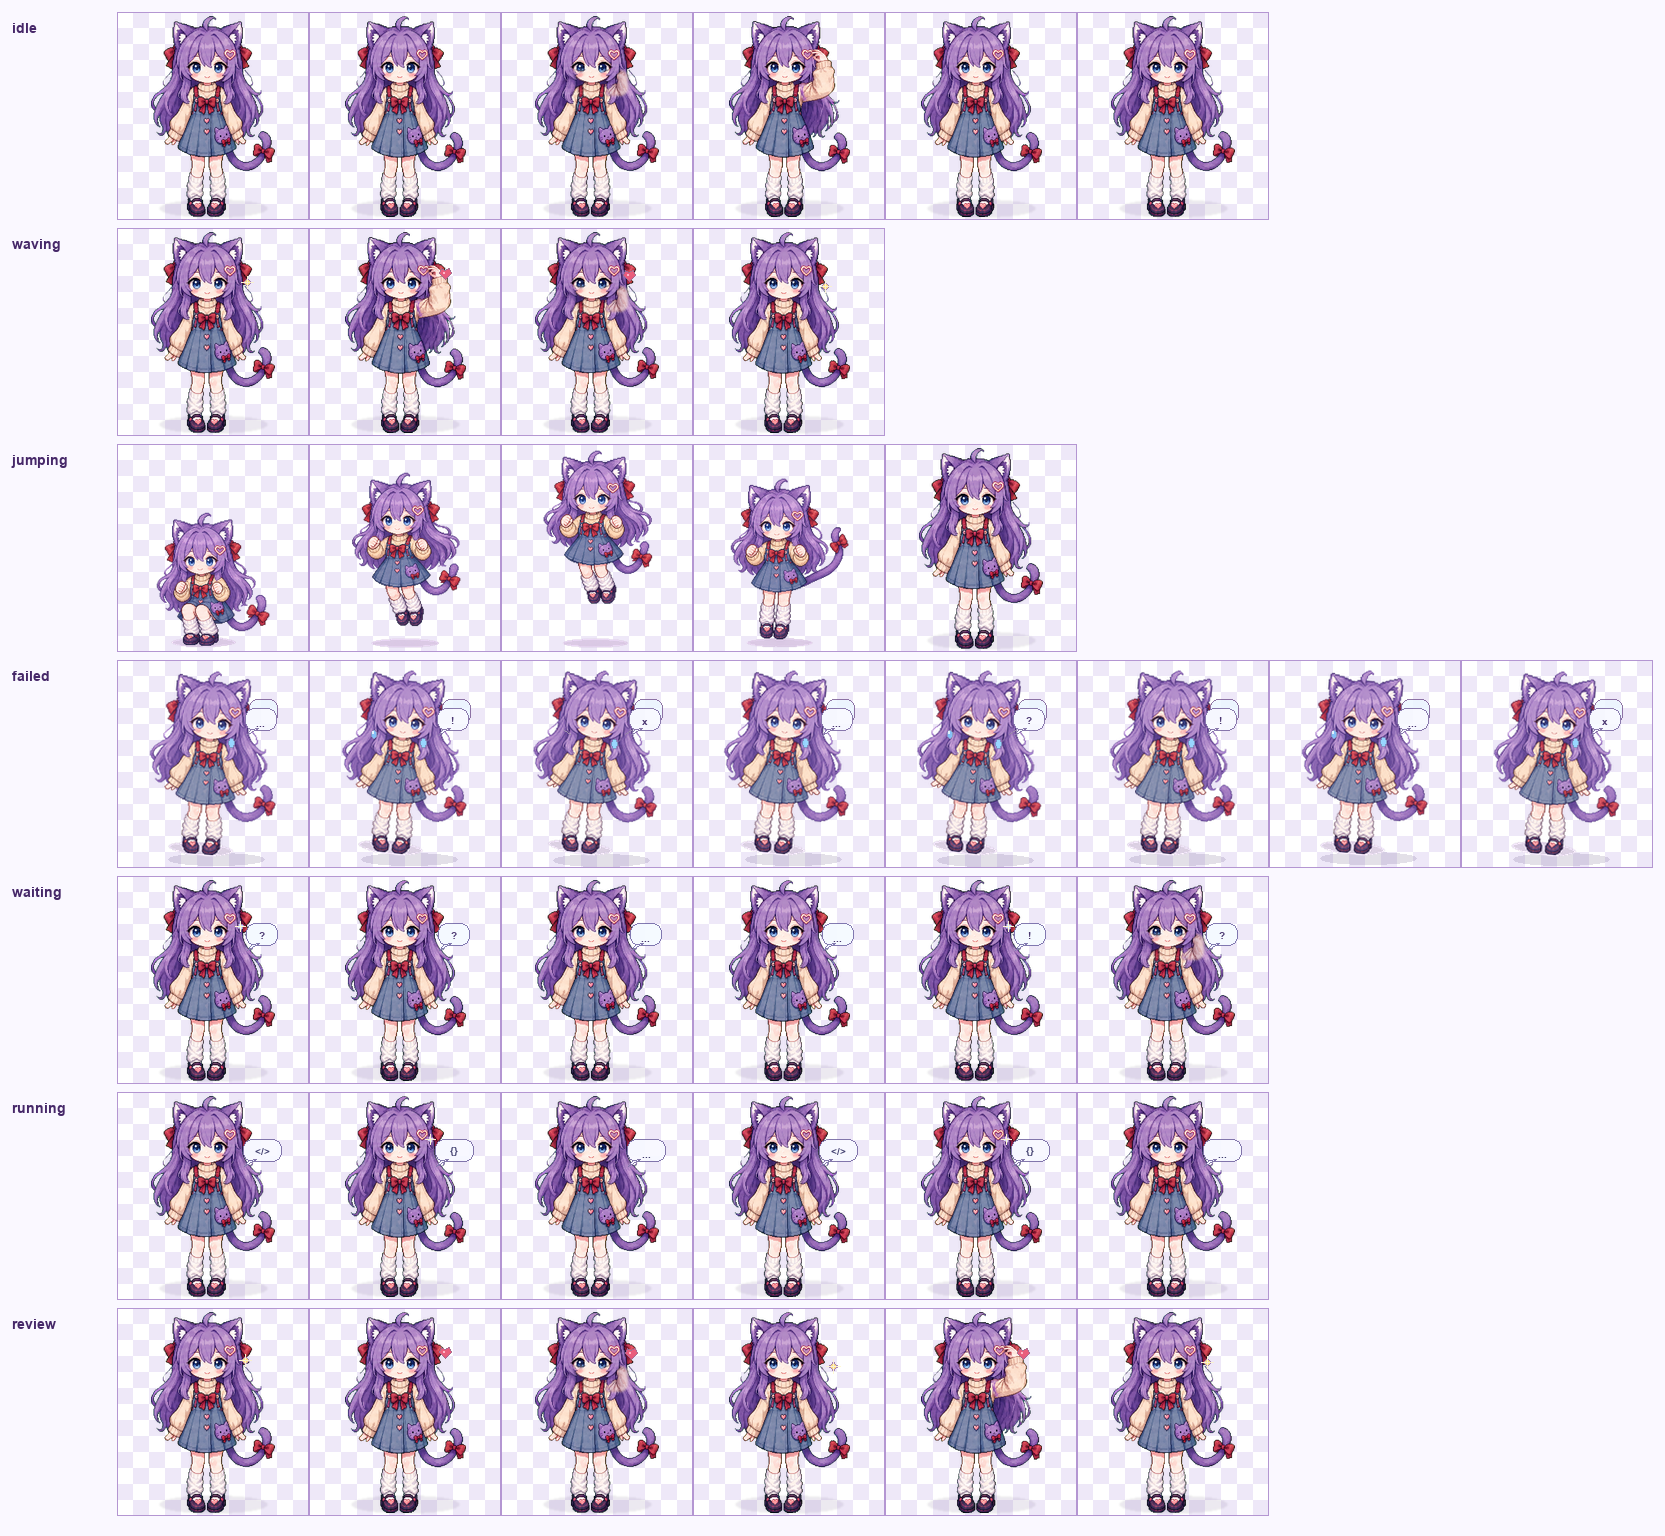
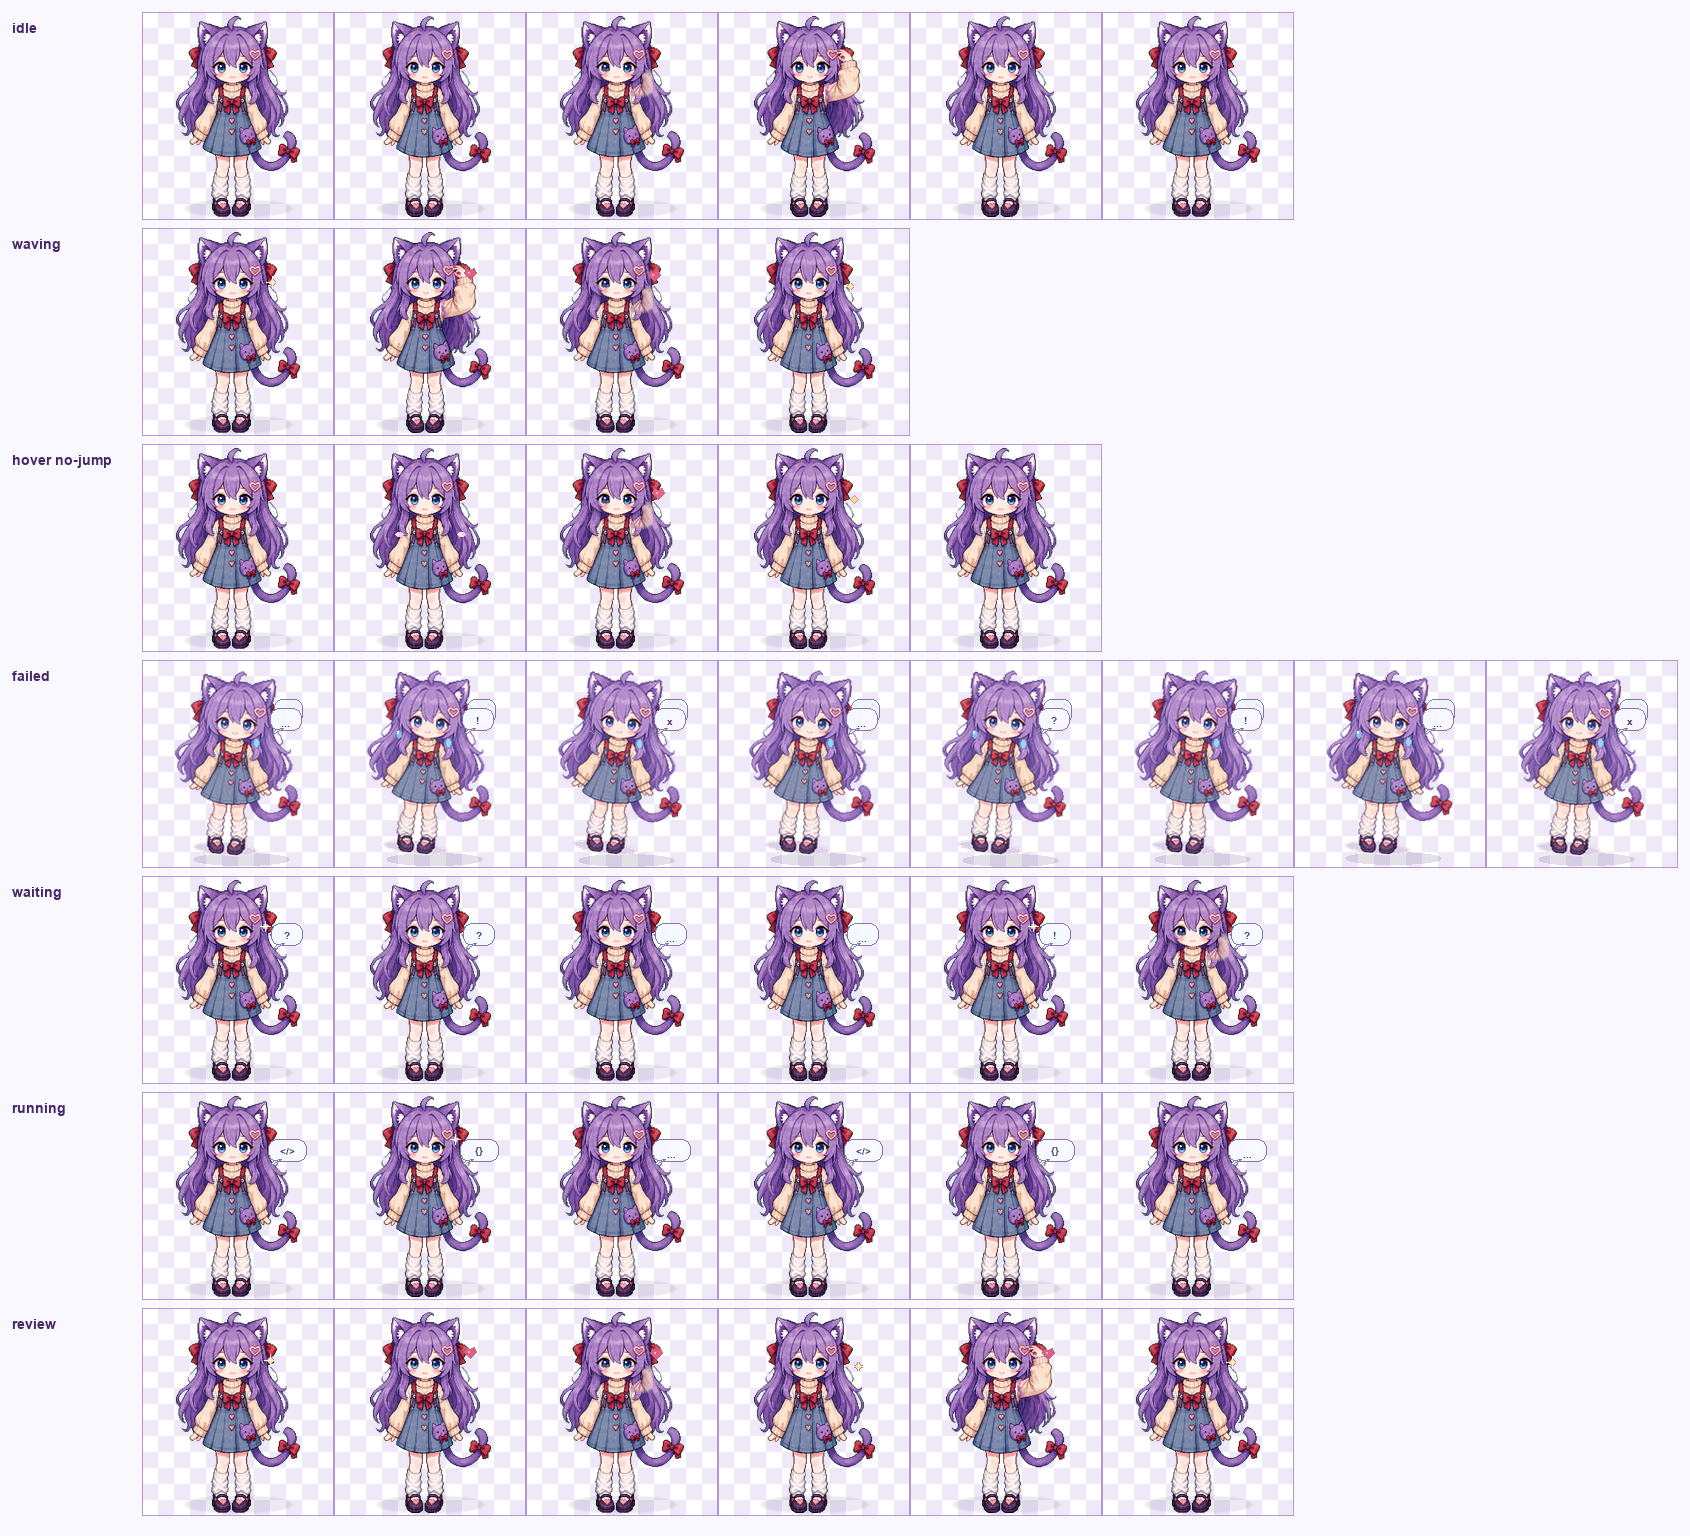
Replace hover jump with gentle reaction

Changed region(s): [[0.0937, 0.0, 0.7495, 1.0], [0.7808, 0.4375, 0.9682, 0.5625], [0.0312, 0.2812, 0.0625, 0.3125]]

diff --git a/README.md b/README.md
@@ -11,7 +11,7 @@
 - 可爱像素风猫耳少女，尽量保留原型的紫发、猫耳、红蝴蝶结、背带裙、爱心细节和尾巴。
 - 待机包含稳定站姿、轻微眨眼和低频撩发/触发夹动作。
 - 拖动时包含左右方向奔跑帧。
-- 包含跳跃、等待、运行、review 等 Codex App 宠物状态帧。
+- 包含悬浮反应、等待、运行、review 等 Codex App 宠物状态帧。
 - `spritesheet.png` 保持 Codex App 自定义宠物需要的 `1536 × 1872`、`8 × 9` 网格格式。
 
 ## 安装
@@ -39,7 +39,7 @@ cp -R hajimi ~/.codex/pets/hajimi
 | `running-right` | row 1 | 向右拖动时侧身奔跑 |
 | `running-left` | row 2 | 向左拖动时侧身奔跑 |
 | `waving` | row 3 | 保留状态，设计为小爱心/闪光打招呼 |
-| `jumping` | row 4 | 鼠标悬停时可爱小跳跃，落回站姿 |
+| `jumping` | row 4 | Codex 内部悬浮状态；视觉上改为轻眨眼/小爱心，不再跳跃 |
 | `failed` | row 5 | 阻塞/失败时小汗滴和提示泡泡 |
 | `waiting` | row 6 | 需要输入/授权时问号提示泡泡 |
 | `running` | row 7 | Codex 思考/运行时代码泡泡循环 |
